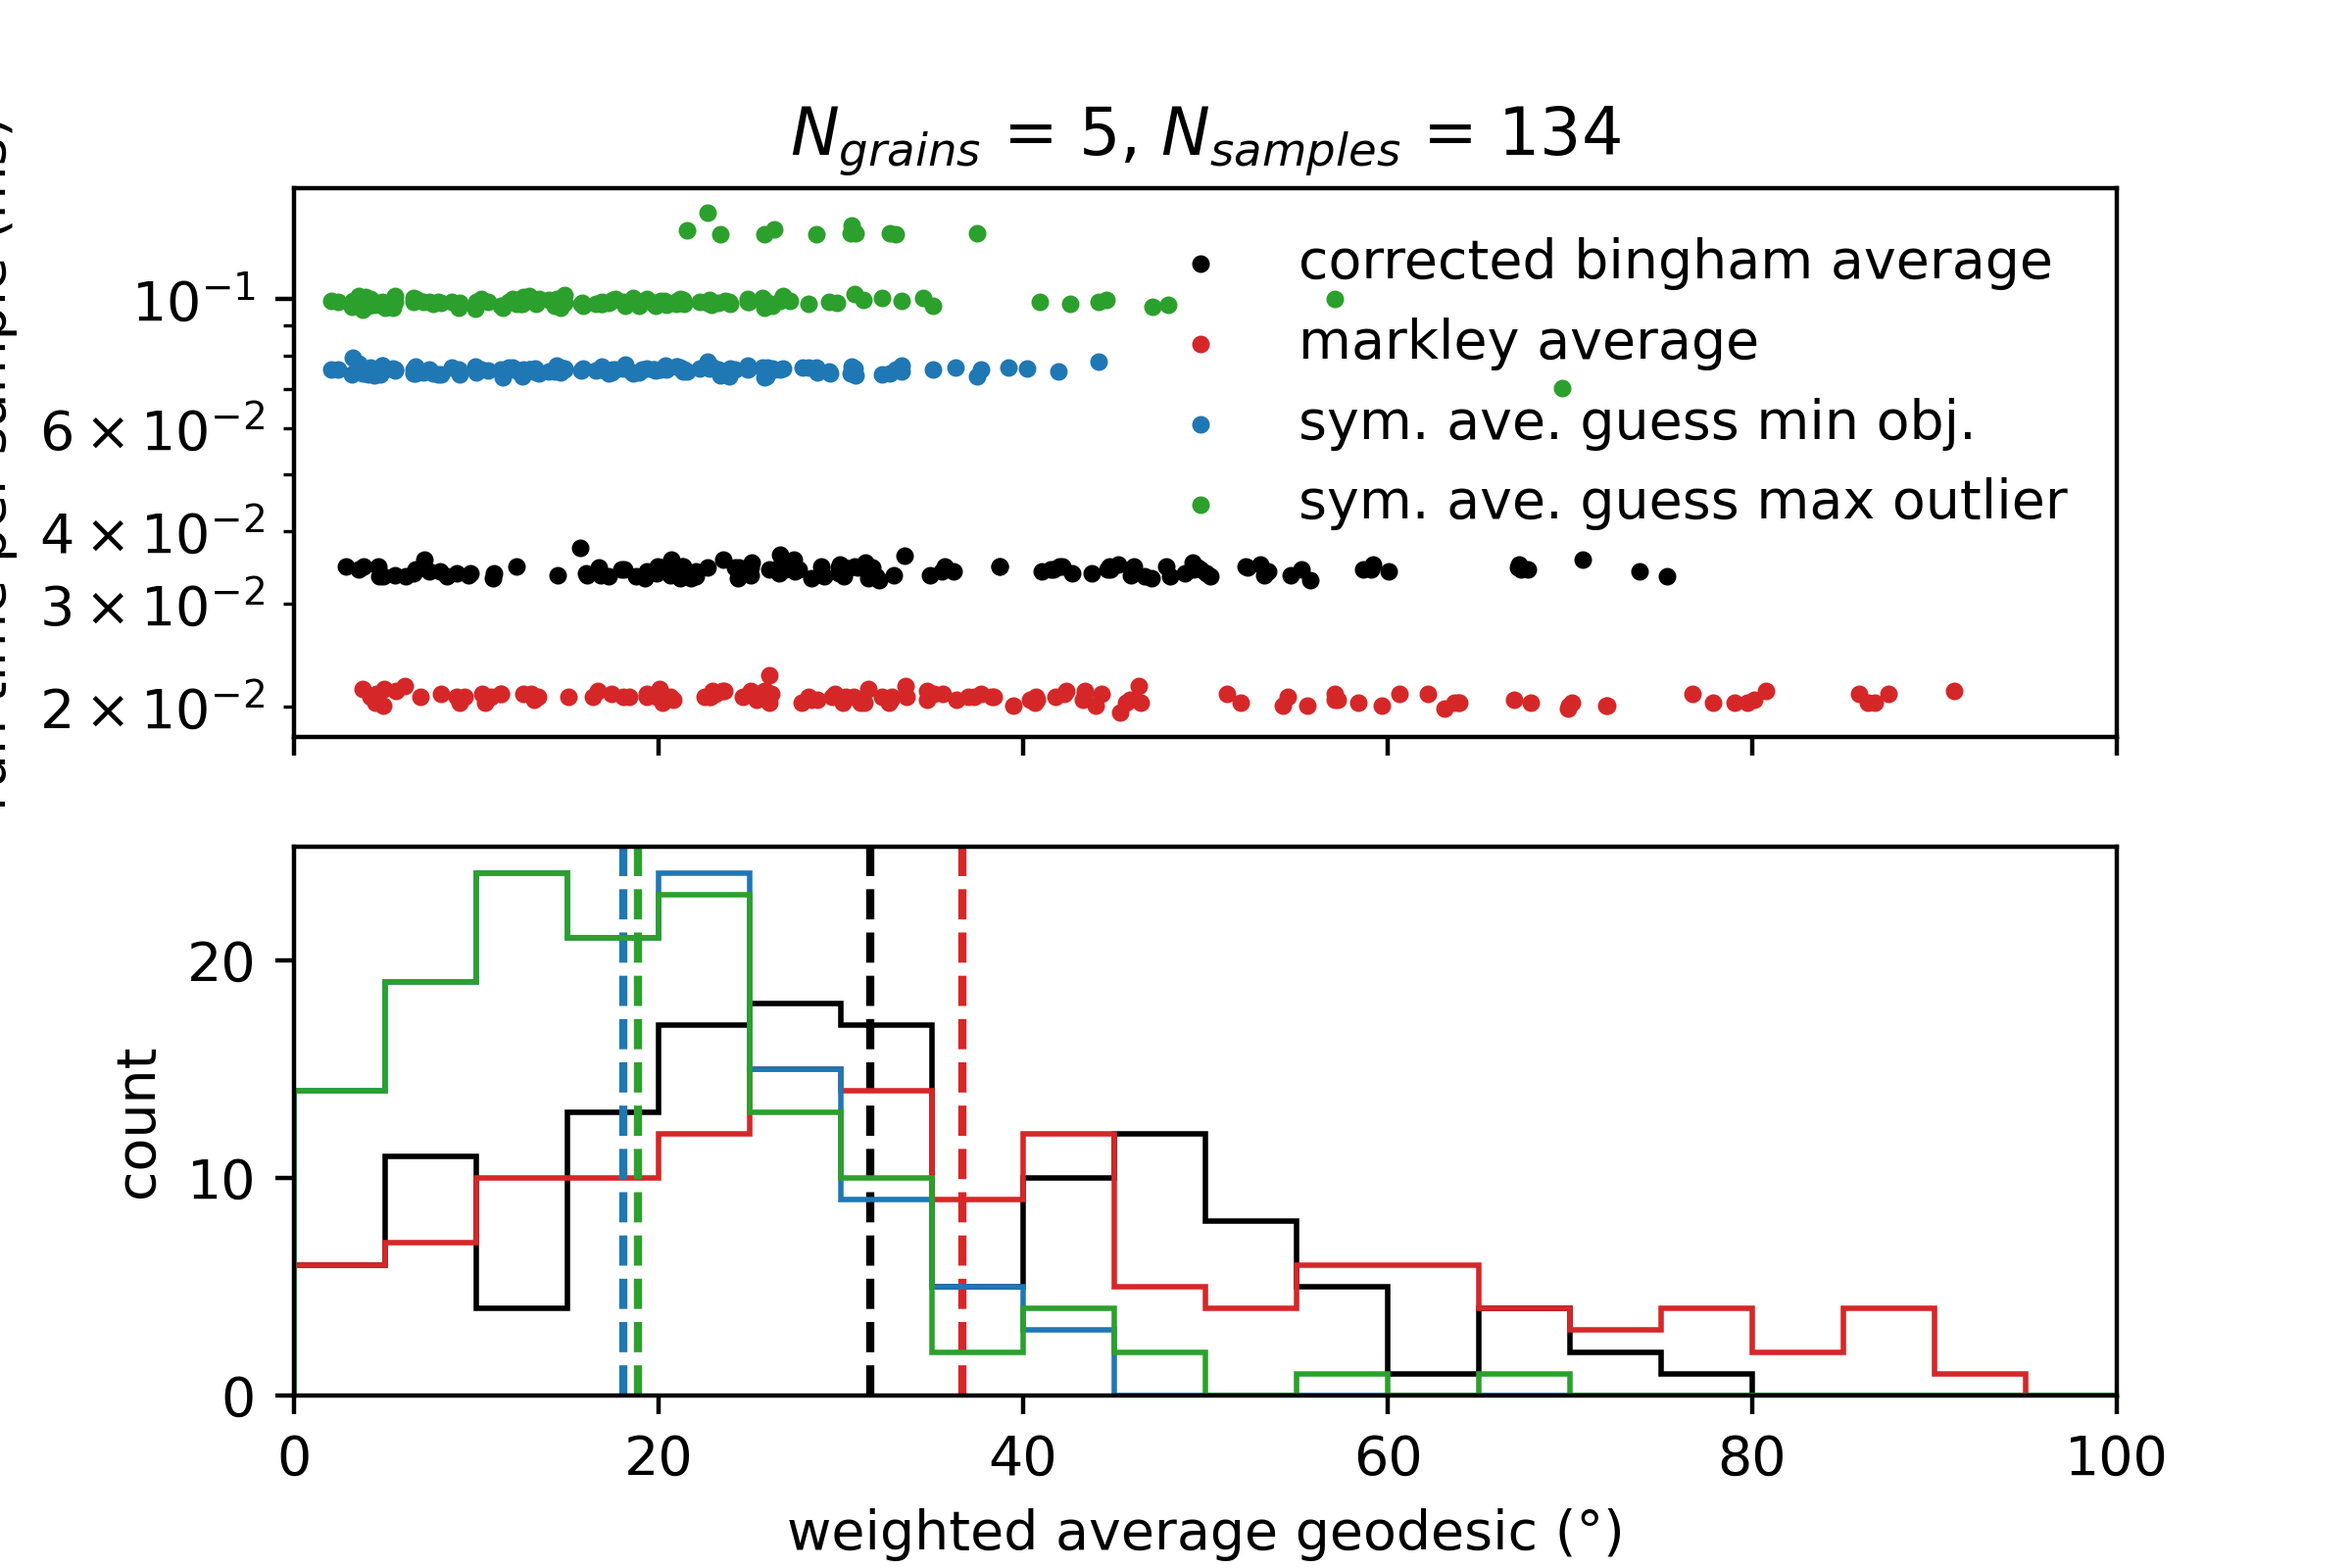
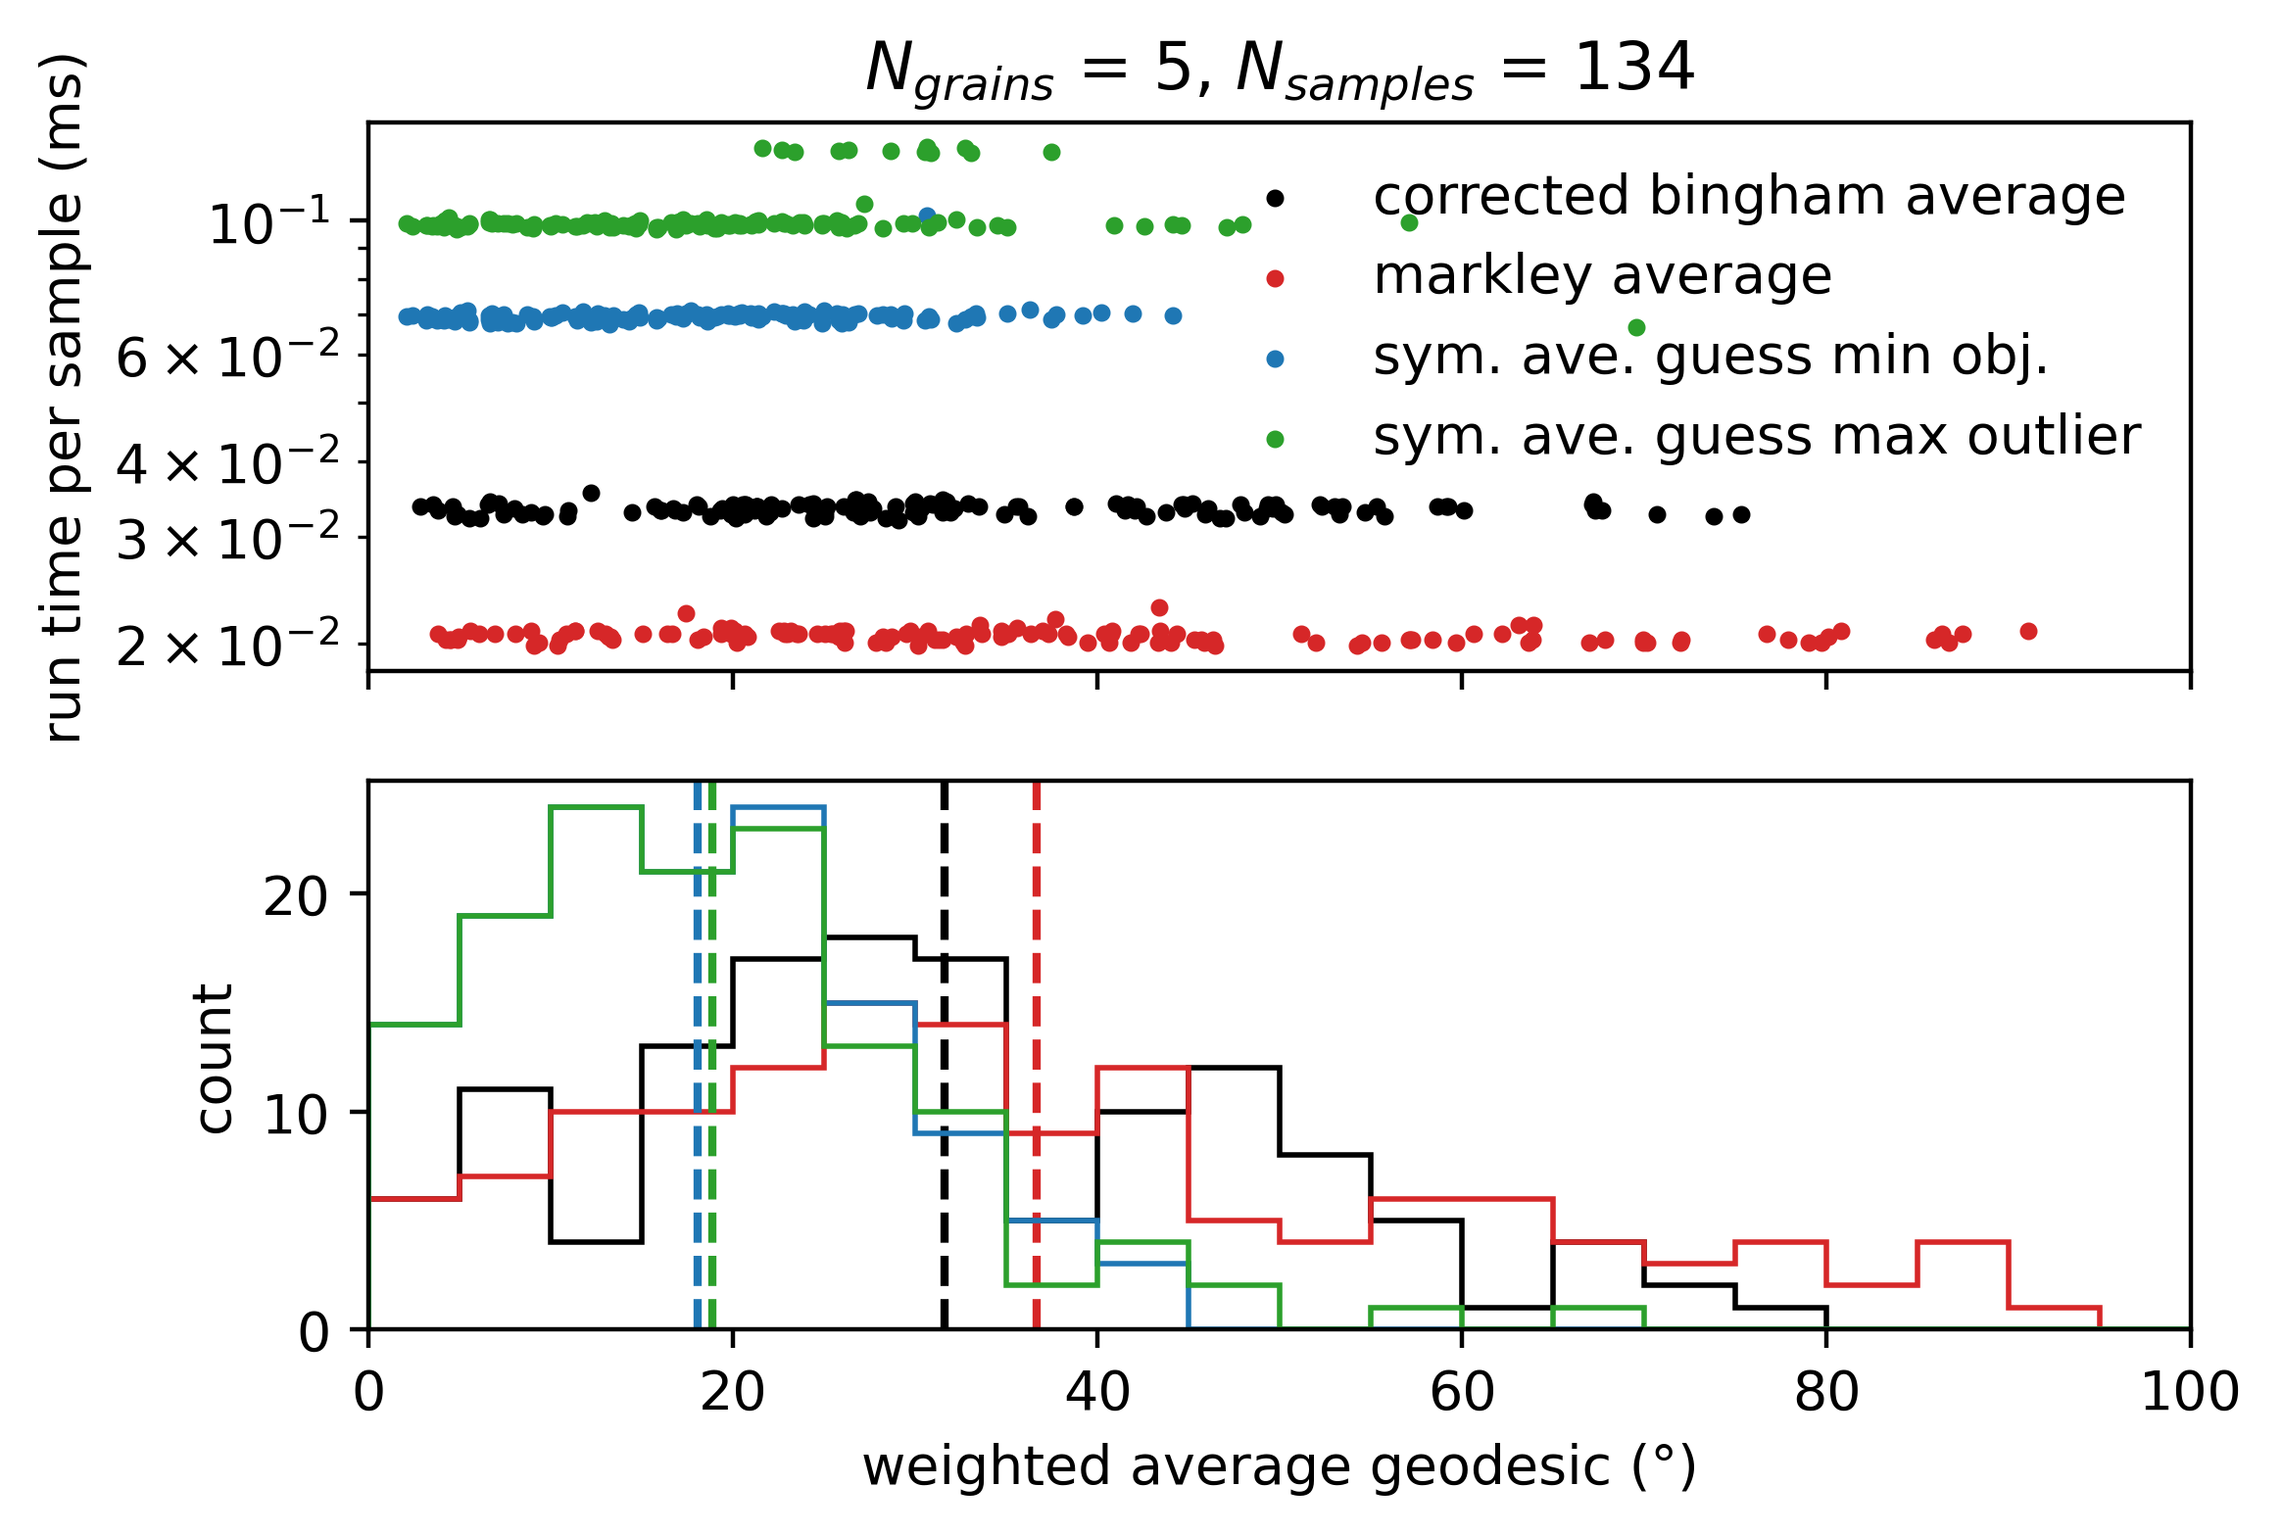
edited figures, compared norms

Changed region(s): [[0.0, 0.0307, 0.9893, 1.0], [0.5565, 0.7356, 0.5874, 0.7663]]

diff --git a/statistics/run_time_estimate.py b/statistics/run_time_estimate.py
@@ -23,6 +23,11 @@ def measure_time(fct, *args, **kwargs):
         t0 = time.time()
     return out, np.min(run_time)
 
+def pm_mean(arr): 
+    mean = np.mean(arr)
+    std = np.std(arr, ddof=1)
+    return mean-std, mean, mean+std
+
 #def euclid_to_riemann(d): return 2*np.arcsin(d/(2*np.sqrt(2)))
 #def riemann_to_euclid(d): return 2*np.sqrt(2)*np.sin(d/2)
 
@@ -30,6 +35,7 @@ def measure_time(fct, *args, **kwargs):
 
 cpo_data = np.genfromtxt("CPO-DDRX-quaternion.dat", skip_header=1)
 ids = np.unique(np.int64(cpo_data[:,0]))
+N_samples = len(ids)
 
 # plotting specifications
 names = ["corrected bingham average",
@@ -39,16 +45,19 @@ names = ["corrected bingham average",
 
 colors = ["k", "tab:red", "tab:blue", "tab:green"]
 
-use_euclid = False
+use_euclid = True
 symmetry_group = "orthorhombic"
 plot_deg = True
+use_mean_std = True
+use_vf = True
+use_random_masking = True
 if plot_deg: xlab = "weighted average geodesic (°)"
 else:        xlab = "weighted average geodesic (rad)"
 max_geo = 100 
 
 # run characteristics
-fractions = np.array([0, 25, 50, 75, 85, 90, 95, 97, 99, 99.5])
-plot_fig  = np.array([1,  0,  1,  0,  0,  1,  0,  0,  1,    1])
+fractions = np.array([0, 25, 50, 75, 85, 90, 95, 97, 98, 99, 99.5])
+plot_fig  = np.array([1,  0,  1,  0,  0,  1,  0,  0,  0,  1,    1])
 
 # 10, 50 (median), 90 percentile 
 run_time_stats = np.empty((len(fractions), 4, 3))
@@ -59,24 +68,23 @@ N_grains = np.empty_like(fractions, dtype=int)
 
 for j0, p_ in enumerate(fractions):
     
-    print(f"progress: {j0/(len(fractions)-1)}% current p: {p_}")
+    print(f"progress: {j0/(len(fractions)-1)*100}% current p: {p_}")
     
-    run_times = np.empty( (len(ids), 4), dtype=float)
-    ave_geo = np.empty((len(ids), 4), dtype=float)
+    run_times = np.empty( (N_samples, 4), dtype=float)
+    ave_geo = np.empty((N_samples, 4), dtype=float)
     
     for i0, id_ in enumerate(ids):
         
         id_mask = cpo_data[:,0] == id_
         quat_array = cpo_data[id_mask, 2:]
-        vf = cpo_data[id_mask, 1] #np.random.rand(len(quat_array)) # np.ones(len(quat_array)) #   
+        vf = np.random.rand(len(quat_array)) if use_random_masking else cpo_data[id_mask, 1] #    
         
         # reduce number of points if wanted
-        
         mask = vf > np.percentile(vf, p_)
         N_grains[j0] = np.sum(mask)
         
         quat_array = quat_array[mask]
-        vf = np.ones_like(vf[mask])
+        vf = vf[mask] if use_vf else np.ones_like(vf[mask]) # np.ones_like(vf[mask]) #  
         
         R_mats = np.array([quaternions_to_rotation_matrix(q) for q in quat_array])
         
@@ -101,7 +109,7 @@ for j0, p_ in enumerate(fractions):
     # possibly plotting
     if plot_fig[j0]:
         fig, (ax,ax_hist) = plt.subplots(2,1, dpi=400, sharex=True)
-        for i in range(len(run_times.T)):
+        for i in range(4):
             ax.scatter(ave_geo[:,i], run_times[:,i]*1000, label=names[i], c=colors[i], s=5)
             ax_hist.hist(ave_geo[:,i], label=names[i], bins=20, range=(0,max_geo),
                          color=colors[i], histtype="step")
@@ -111,18 +119,26 @@ for j0, p_ in enumerate(fractions):
                title=fr"$N_{{grains}}$ = {N_grains[j0]}, $N_{{samples}}$ = {len(ids)}")
         ax_hist.set(xlabel= xlab, ylabel="count")
         ax.legend(frameon=False)
-        if use_euclid:
-            fig.savefig(f"../plots/run_time_vs_obj_{N_grains[j0]}_{len(ids)}_euclid.png")
-        else: 
-            fig.savefig(f"../plots/run_time_vs_obj_{N_grains[j0]}_{len(ids)}.png")
+        #if use_euclid:
+        #    fig.savefig(f"../plots/run_time_vs_obj_{N_grains[j0]}_{len(ids)}_euclid.png", bbox_inches='tight')
+        #else: 
+        #    fig.savefig(f"../plots/run_time_vs_obj_{N_grains[j0]}_{len(ids)}.png", bbox_inches='tight')
         plt.close(fig)
 
     # meta evaluation
     for n in range(4): # averaging method
-        for i, q in enumerate([33, 50, 66]):
-            run_time_stats[j0, n, i] = np.percentile(run_times[:,n], q)
-            ave_geo_stats[j0, n, i] = np.percentile(ave_geo[:,n], q)
-    
+        if use_mean_std:   
+            run_time_stats[j0, n, :] = pm_mean(run_times[:,n])
+            ave_geo_stats[j0, n, :] = pm_mean(ave_geo[:,n])
+        else:
+            for i, q in enumerate([33, 50, 66]):
+                run_time_stats[j0, n, i] = np.percentile(run_times[:,n], q)
+                ave_geo_stats[j0, n, i] = np.percentile(ave_geo[:,n], q)
+    mask_better = ave_geo[:,0] < ave_geo[:,2] 
+    print(f"bingham better than symmetry average: {np.sum(mask_better)} times " 
+          + f"{np.sum(mask_better)/N_samples*100:.1f} %")
+
+        
 #%% final evaluation 
 
 fig, (axt, axgeo) = plt.subplots(2,1, dpi=400, sharex=True, figsize=(5,5))
@@ -137,14 +153,14 @@ for n in range(4): # averaging method
     
 axt.legend(frameon=False)
 
-axgeo.set(xlabel=r"$N_{grains}$", ylabel=xlab, ylim=(0,50),
+axgeo.set(xlabel=r"$N_{grains}$", ylabel=xlab, ylim=(0,90),
           xlim=(4,1e3), xscale="log")
 axt.set(ylabel="average run time \nper sample (ms)", yscale="log")
 
-if use_euclid:
-    fig.savefig(f"../plots/run_time_scaling_{len(ids)}_euclid.png")
-else: 
-    fig.savefig(f"../plots/run_time_scaling_{len(ids)}.png")
+#if use_euclid:
+#    fig.savefig(f"../plots/run_time_scaling_{len(ids)}_euclid.png", bbox_inches='tight')
+#else: 
+#    fig.savefig(f"../plots/run_time_scaling_{len(ids)}.png", bbox_inches='tight')
 
 
 

diff --git a/statistics/analytical_averages_visual.py b/statistics/analytical_averages_visual.py
@@ -30,8 +30,8 @@ def _symmetric_circular_mean(angle1, angle2, w1, w2, reflect=False):
     if reflect: 
         product = min(1, max(-1,vec1@vec2)) # avoid floating point errors
         if np.arccos(product) > np.pi/2: vec2 *= -1
-    mean_vec = 0.5*(w1*vec1 + w2*vec2)
-    return np.arctan2(mean_vec[1], mean_vec[2])
+    mean_vec = w1*vec1 + w2*vec2
+    return np.arctan2(mean_vec[1], mean_vec[0])
     
 # test data: two rotations around the x-axis by an angle phi
 
@@ -43,17 +43,18 @@ def test_circular_average():
     quat1 = axis_angle_to_quaternion(rot_axis, phi1)
     quat2 = axis_angle_to_quaternion(rot_axis, phi2) 
 
-    for weights in [np.ones(2), np.array([1/3,2/3])]:
-        true_mean = _symmetric_circular_mean(phi1, phi2, weights)
+    for weights in [np.ones(2), np.array([4/5,1/5])]:
+        true_mean = _symmetric_circular_mean(phi1, phi2, *weights)
         mean_quat = symmetry_average(np.array([quat1,quat2]), weights, 
                                           sym_group="triclinic")
         mean_quat_markley = markley_average(np.array([quat1,quat2]), weights)
         
-        axis, mean_angle = quaternion_to_axis_angle(mean_quat)    
-        axis, mean_angle_markley = quaternion_to_axis_angle(mean_quat_markley) 
+        mean_axis, mean_angle = quaternion_to_axis_angle(mean_quat)    
+        mean_axis, mean_angle_markley = quaternion_to_axis_angle(mean_quat_markley) 
+        
         
         if all(weights==1): assert np.abs(mean_angle) < 1e-12
-        assert np.abs(mean_angle - true_mean) < 1e-12
+        assert np.abs(mean_angle - true_mean) < 1e-12, f"{mean_angle},{true_mean}"
         assert np.abs(mean_angle - mean_angle_markley) < 1e-12
         
 def test_symmetry_average():
@@ -64,16 +65,19 @@ def test_symmetry_average():
     quat1 = axis_angle_to_quaternion(rot_axis, phi1)
     quat2 = axis_angle_to_quaternion(rot_axis, phi2) 
 
-    for weights in [np.ones(2), np.array([1/3,2/3])]:
-        true_mean = _symmetric_circular_mean(phi1, phi2, weights, reflect=True)
+    for weights in [np.ones(2), np.array([4/5,1/5])]:
+        true_mean = _symmetric_circular_mean(phi1, phi2, *weights, reflect=True)
         mean_quat = symmetry_average(np.array([quat1,quat2]), weights, 
                                           sym_group="orthorhombic")
+        print(mean_quat, quat1, quat2)
+
         axis, mean_angle = quaternion_to_axis_angle(mean_quat)    
         
         if all(weights==1): assert np.abs(mean_angle) < 1e-12
-        assert np.abs(mean_angle - true_mean) < 1e-12
+        assert np.abs(mean_angle - true_mean) < 1e-12, f"{mean_angle},{true_mean}"
         
-    
+test_circular_average()
+test_symmetry_average()
     
 
     

diff --git a/app/orientation_averages/src/averages.py b/app/orientation_averages/src/averages.py
@@ -75,7 +75,7 @@ def symmetry_average(quat_array, weights, max_iterations:int=100,
             q0 = np.copy(q_mean)
             obj_fct = np.copy(new_objective) 
         else: return q0
-        if n==max_iterations-1: 
+        if n==max_iterations-1:
             raise Exception("Maximum number of iterations exceeded " + 
                             f"in symmetry average. n = {n}")
 
@@ -85,12 +85,19 @@ def symmetry_average(quat_array, weights, max_iterations:int=100,
 @njit
 def _minimum_objective_quaternion(quat_array, weights, sym_group="orthorhombic", 
                                   euclid:bool=False):
-    objs = np.zeros(len(quat_array))
+    n_ptc = len(quat_array)
+    objs = np.zeros(n_ptc, dtype=float)
+    geodesics = np.zeros((n_ptc,n_ptc), dtype=float)
+    normalization = np.sum(weights)
     for i, q0 in enumerate(quat_array): 
-        for j,qn in enumerate(quat_array):
-            q_sym = symmetrize_wrt_ref(qn, q0, sym_group, euclid) 
-            objs[i] += weights[j]*quat_geodesic(q_sym, q0, euclid)**2
-        objs[i] /= np.sum(weights)
+        for j in range(i+1,len(quat_array)):
+            q_sym = symmetrize_wrt_ref(quat_array[j], q0, sym_group, euclid) 
+            geodesics[i,j] = quat_geodesic(q_sym, q0, euclid)
+            geodesics[j,i] = geodesics[i,j]
+            objs[i] += weights[j]*geodesics[i,j]**2
+        for j in range(0, i): objs[i] += weights[j]*geodesics[i,j]**2
+            
+        objs[i] /= normalization
     id_min = np.argmin(objs)
     
     return quat_array[id_min], objs[id_min]

diff --git a/app/orientation_averages/src/quaternion_utils.py b/app/orientation_averages/src/quaternion_utils.py
@@ -83,20 +83,20 @@ def quaternions_to_rotation_matrix(quat):
     
     return rotation_matrix;
 
-@njit
+#@njit
 def axis_angle_to_quaternion(axis, angle):
     quat = np.empty(4, dtype=float)
     quat[0] = np.cos(angle/2)
-    axis /= np.sqrt(np.sum(axis**2))
+    axis = axis/np.sqrt(np.sum(axis**2))
     quat[1:] = np.sin(angle/2)*axis    
     return quat
 
-@njit
+#@njit
 def quaternion_to_axis_angle(quat):
     angle = 2*np.arccos(quat[0])
     if angle > 1e-12:
         axis = quat[1:]/np.sin(angle/2)
-        axis /= np.sqrt(np.sum(axis**2))
+        axis = axis/np.sqrt(np.sum(axis**2))
     else: 
         angle = 0.0
         axis = quat[1:]/np.sqrt(np.sum(quat[1:]**2))

diff --git a/app/README.md b/app/README.md
@@ -1,10 +1,5 @@
 # Average for Crystal Orientation
 
-## Requirements 
-
-## Example usage
-
-
 # Theoretical basis
 
 Any rotation in 3D can be represented by a 3x3 orthogonal matrix that preserves orientation, formally the group $SO(3)$. For a crystal with certain symmetries there are operations that leave the crystal orientation invariant. For example, a 180° rotation around $z$ is defined by the matrix $\mathbf{P}_z = \mathrm{diag}(-1,-1,1)$, and would leave a crystal with monoclinic symmetry around $z$ invariant. Following ([Man, 2022](https://doi.org/10.1007/s10659-022-09882-8) Chapter 6), one can define the set of all symmetry operations as,

diff --git a/README.md b/README.md
@@ -12,10 +12,10 @@ The folder statistics contains tests for runtime and accuracy.
 ## TODOS
 
 - [x] runtime vs. accuracy analysis
-- [ ] improve effiency -> don't resymmetrize if not necessary 
-- [ ] write unit tests
-- [ ] check maximum geodesic for orthorhombic group 
-- [ ] use frobenius norm as metric instead of geodesic?  
+- [ ] improve effiency -> don't resymmetrize if not necessary ?
+- [x] write unit tests 
+- [ ] figure out how to run a tester 
+- [x] use frobenius norm as metric instead of geodesic?  
 
 ## Installation 
 
